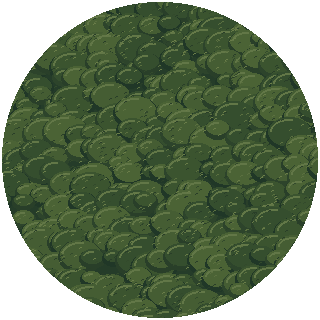
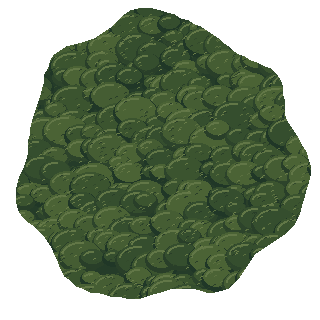
Keep giant tree canopy clear around player approaches

Changed region(s): [[0.0, 0.0, 1.0, 1.0]]

diff --git a/src/scenery/hollow_tree_render.cpp b/src/scenery/hollow_tree_render.cpp
@@ -2,6 +2,23 @@
 #include "hollow_tree.hpp"
 #include "../world/terrain_material.hpp"
 #include <algorithm>
+#include <cmath>
+
+float hollow_tree_opacity(const RoofSpan& roof,Cell viewer) {
+    if (!roof.hp) return 0;
+    const float rx=static_cast<float>(roof.length)*.5F,ry=static_cast<float>(roof.width)*.5F;
+    const float cx=static_cast<float>(roof.start.x)+rx-.5F,cy=static_cast<float>(roof.start.y)+ry-.5F;
+    // The crown is drawn height cells north of its ground footprint. Include
+    // that entire projection and the trunk between them, not only the interior.
+    const float y=static_cast<float>(viewer.y);
+    const float nearest_y=std::clamp(y,cy-static_cast<float>(roof.height),cy);
+    const float dx=(static_cast<float>(viewer.x)-cx)/rx,dy=(y-nearest_y)/ry;
+    const float outside=(std::sqrt(dx*dx+dy*dy)-1)*std::min(rx,ry);
+    // Keep a one-cell margin for the actor's sprite and the immediate approach;
+    // restore the crown over three more cells, instead of concealing one step out.
+    const float t=std::clamp((outside-1)/3,0.0F,1.0F);
+    return .14F+.86F*t*t*(3-2*t);
+}
 
 namespace {
 void crown(SDL_Renderer* renderer,SDL_Texture* texture,SDL_FRect rect,Cell cell,SDL_FRect uv,
@@ -24,8 +41,7 @@ void crown(SDL_Renderer* renderer,SDL_Texture* texture,SDL_FRect rect,Cell cell,
 }
 void draw_hollow_tree_row(SDL_Renderer* renderer,const GameGraphics& graphics,const Stage& stage,
     const RoofSpan& roof,int row,const Entity* viewer,ViewCamera camera,float zoom,const LightingCache& lighting) {
-    const bool reveal=viewer && reveal_roof(roof,viewer->cell);
-    const float opacity=reveal ? .14F : 1;
+    const float opacity=viewer ? hollow_tree_opacity(roof,viewer->cell) : 1;
     const float condition=static_cast<float>(roof.hp)/static_cast<float>(roof_health(roof.kind));
     auto* leaves=texture_for(graphics,Sprite::GiantTreeCanopy);
     for (int x=0;x<roof.length;++x) {

diff --git a/src/scenery/roof_render.cpp b/src/scenery/roof_render.cpp
@@ -1,5 +1,4 @@
 #include "roof_render.hpp"
-#include "hollow_tree.hpp"
 #include "hollow_tree_render.hpp"
 #include "ice_arch_render.hpp"
 #include "../world/terrain_material.hpp"
@@ -7,9 +6,9 @@
 #include <array>
 
 bool reveal_roof(const RoofSpan& roof,Cell viewer) {
-    // Only the actual passage and this viewport's viewer reveal the group.
-    // Standing beside a support or just outside either entrance does not count.
-    if (roof.kind==RoofKind::HollowTree) return roof.hp>0 && tree_ellipse(roof,viewer,3);
+    // Giant crowns extend above/beyond their rooms; visibility follows their
+    // screen projection. Narrow passages still reveal only actual occupants.
+    if (roof.kind==RoofKind::HollowTree) return roof.hp>0 && hollow_tree_opacity(roof,viewer)<1;
     const Cell delta=viewer-roof.start;
     const int along=roof.vertical ? delta.y : delta.x;
     const int across=roof.vertical ? delta.x : delta.y;

diff --git a/tools/art/giant_tree.py b/tools/art/giant_tree.py
@@ -2,11 +2,19 @@
 from pathlib import Path
 from PIL import Image,ImageDraw
 import random
+import math
 OUT=Path(__file__).resolve().parents[2]/'assets'/'graphics'
 r=random.Random(7241)
 size=320
 im=Image.new('RGBA',(size,size),'#253c29');p=ImageDraw.Draw(im)
-mask=Image.new('L',(size,size));m=ImageDraw.Draw(mask);m.ellipse((2,2,317,317),fill=255)
+mask=Image.new('L',(size,size));m=ImageDraw.Draw(mask)
+# An uneven crown leaves gaps around its lobes instead of covering a full disc.
+outline=[]
+for i in range(128):
+    angle=math.tau*i/128
+    radius=157*(.90+.04*math.sin(3*angle+.8)+.035*math.sin(7*angle)+.02*math.sin(11*angle+2))
+    outline.append((round((159.5+radius*math.cos(angle))/2)*2,round((159.5+radius*math.sin(angle))/2)*2))
+m.polygon(outline,fill=255)
 for y in range(-12,size+20,18):
     for x in range(-12,size+20,18):
         cx=x+r.randrange(-7,8);cy=y+r.randrange(-7,8);rad=r.randrange(11,24)

diff --git a/src/scenery/hollow_tree_render.hpp b/src/scenery/hollow_tree_render.hpp
@@ -1,4 +1,6 @@
 #pragma once
 #include "roof_render.hpp"
+// Visual relief covers the raised crown and trunk, plus a soft approach band.
+float hollow_tree_opacity(const RoofSpan& roof,Cell viewer);
 void draw_hollow_tree_row(SDL_Renderer* renderer,const GameGraphics& graphics,const Stage& stage,
     const RoofSpan& roof,int row,const Entity* viewer,ViewCamera camera,float zoom,const LightingCache& lighting);

diff --git a/docs/MASTER_TASKS.md b/docs/MASTER_TASKS.md
@@ -13,7 +13,7 @@ Latest playtest priorities (2026-09-16):
 - [ ] **FOREST-DENSITY:** Forest now feels empty: audit room-level inhabitants, props and layers across all four floors against prior generation. Fix shared-budget exhaustion/placement rejection and restore ordinary life, interactive clutter and occasional crowded areas; do not substitute loose twigs or blanket enemy inflation. Preserve safe arrival, required routes and exit locks; report before/after coverage and inspect ordinary seeds. First correction scales/shuffles Forest encounter allocation and increases role-specific interactive clutter: 64-floor inhabitant-free room counts fell from 206/733 to 39/733; props rose from 3,712 to 6,778. Routes/locks/snapshots passed. Scene variety and human combat tuning remain open.
 - [x] **ARROW-CONTACT:** Arrows now resolve actor arrivals and current-cell overlaps before advancing, including shoves, portals and airborne toss steps. Piercing uses the existing saved, generation-qualified flight contacts once per victim per flight leg; parries reset the leg and projectile removal clears its contacts. Build and 16 head-on/perpendicular order cases passed, plus dwell/reentry, reused slots, no phantom hits behind a departed arrow, current/stale owners, moving parries/returned shots, shield/fire handling, airborne crossing, expiry, real boomerang return/catch and snapshot replay. Network gameplay version updated.
 - [ ] **MIMIC-TELL:** Make the existing delayed bite visible: lid/jaw windup, committed bite effect and recovery; check approach, reveal, damage/displacement interrupts and deceptive box state. A sound alone is not adequate.
-- [ ] **GIANT-CANOPY-VISIBILITY:** Stepping outside the hollow tree restores an opaque crown over the player and a large surrounding area. Reconcile the raised canopy's screen footprint with its reveal boundary; trim/shape the crown around the actual structure, and retain local occlusion relief wherever it hides the player or immediate exit approach. Avoid a large circular screen-cover and abrupt concealment at the interior edge. Inspect approaches/departures on all sides, every canopy size/height, partial damage and separate co-op viewers; retain ground-anchor depth and gameplay-independent visibility. See the preserved 2026-09-16 feedback/screenshots.
+- [x] **GIANT-CANOPY-VISIBILITY:** Giant-tree relief now covers the raised crown/trunk projection and a one-cell player margin, restoring opacity over a three-cell approach band instead of concealing the player at the interior edge. The code-generated crown has an uneven lobed outline with 19.5% less opaque coverage. Build and focused checks passed across all widths/heights and intact/half/near-destroyed roofs; inside/north-overhang coverage, monotonic opacity, unchanged narrow-log reveal, per-viewer pixels and gameplay hashes verified. Static approaches/departures on all four sides, actual cut exits, distant opaque crown and damaged canopy inspected; art regenerates identically. Original feedback retained in the 2026-09-16 user notes.
 - [ ] **TREE-VARIETY:** Replace uniformly three-tile oak scenery with varied heights/silhouettes and ordinary singles, small groups, groves and rings. Add conifers, rare thick 2x2 redwoods and 3x3 giant-tree constructions, plus mushroom fairy rings. Fixed multi-tile scenery is allowed without multi-cell moving actors; heights, fall reaches and collision must agree. Use layered seeded passes with varying density rather than a tiny global tree cap.
 - [x] **ICE-VARIETY:** Ordinary Ice now rolls per-room pillar groves (2/3/4/5-cell heights, split/broad silhouettes) and nested clusters of three brittle-spike and three snow-pile shapes on eligible terrain. Spikes break for 1 damage plus a one-second bleed; traction/insulation protects, bandages cure, heat melts, and snow piles can be scooped without erasing underlying ice. Protected routes and objective approaches remain clear. Build, direct contact/cure/scoop/melt/fall/snapshot checks and 64 ordinary floor generation checks passed: 379 pillars, 1,219 spikes, 5,547 snow piles, all heights, repeatable generation and reachable locked objectives. Static views and reproducible code art inspected. Frozen logs remain Ice 1 only; real arches and broader scene composition remain ICE-ARCH/ICE-SETS.
 - [ ] **ORCHARD-LIFE:** Rows of actual fruit trees drop apples when struck; compose a tender, tools/equipment and scarecrow. Requested living-scarecrow chance is 30%, with a readable delayed swipe and persistent generated identity. Support ordinary orchard singles/groups as well as a fuller scene; account for food supply and repeat harvesting.
